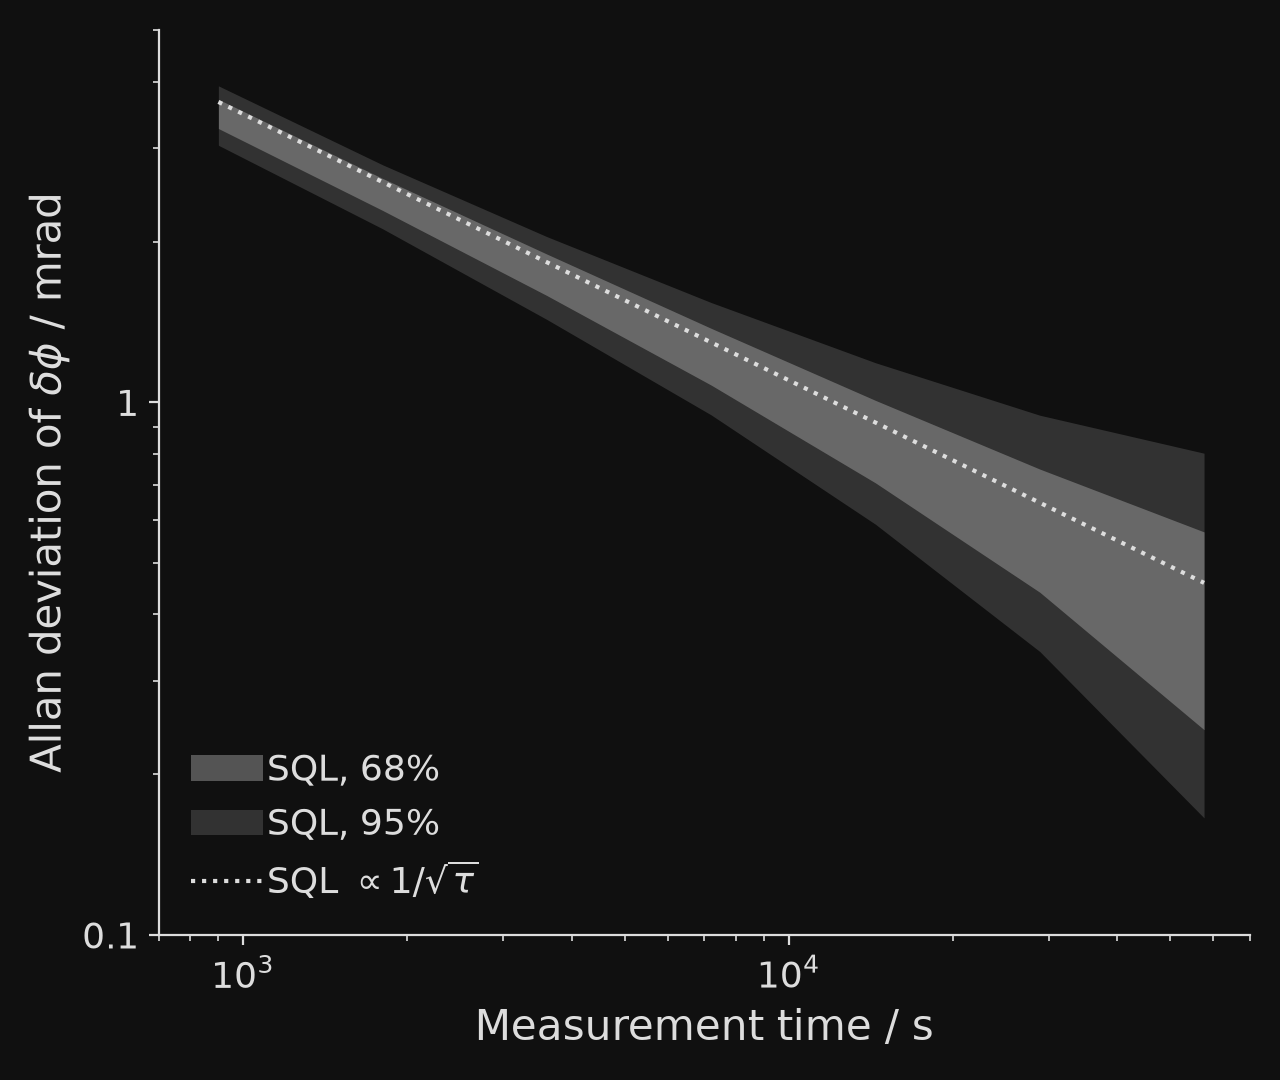
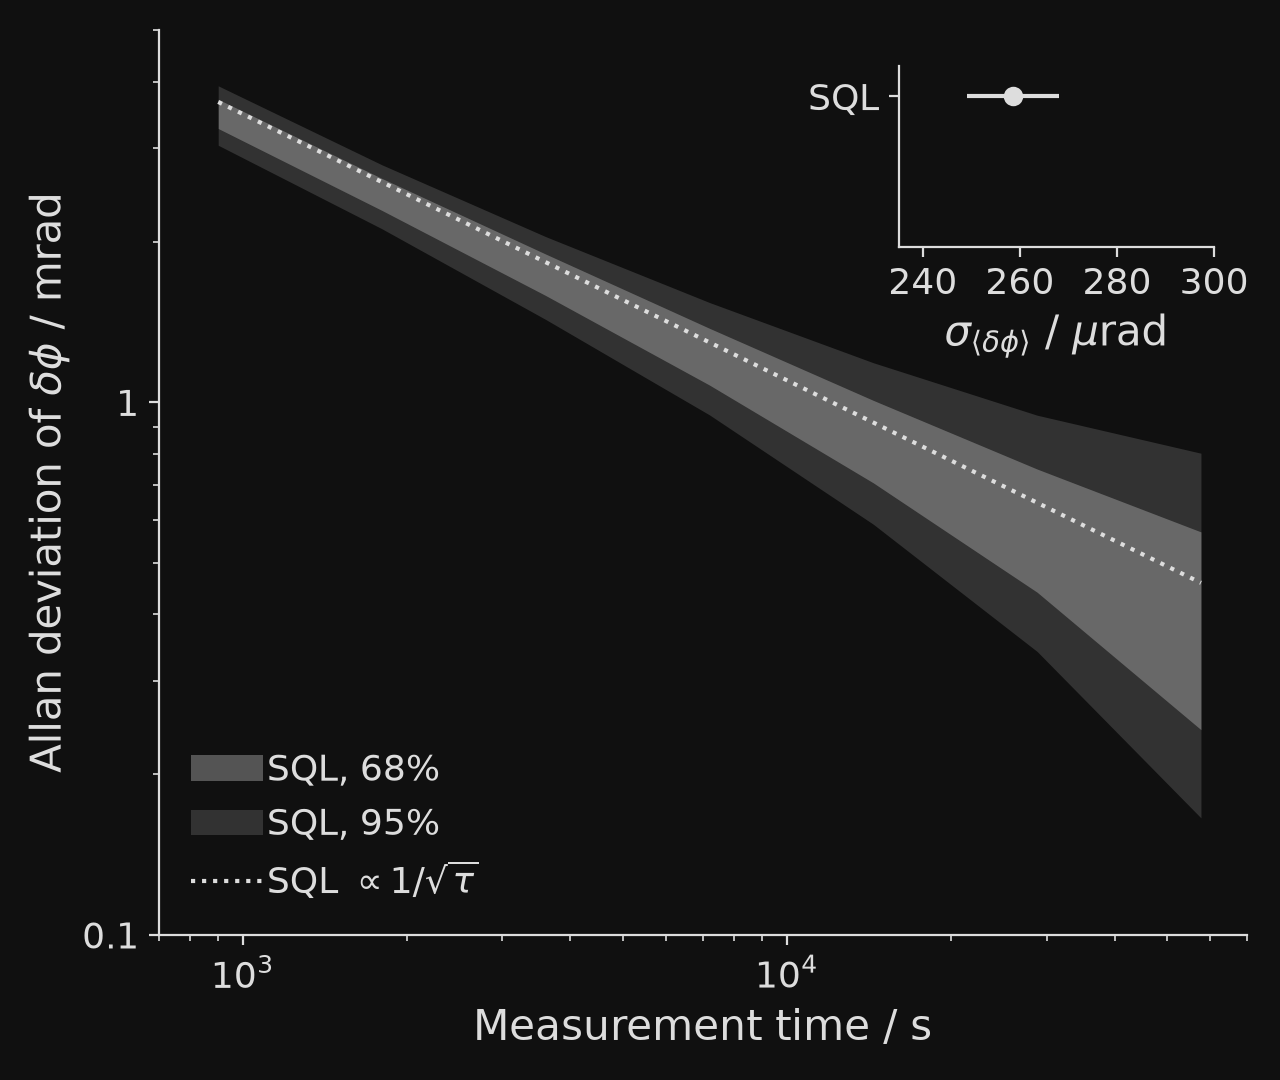
Allan deviation: add the paper's sigma_<dphi> inset; LLN in green
process_dai_adev.py now also works out Fig. 4c's inset as the notebook
does -- each run's sigma_<dphi> over the whole run, and the SQL over the
same shots -- into dai_fringes/sigma.csv: HLN 275(14), LLN 260(13),
SQL 259(10) urad, matching the paper. adev_figure draws it upper right,
its rows filling in with the build-up steps.

The low-laser-noise run goes from white to a bluish green, which stands
clear of the grey SQL band; the Lissajous figures and scene follow.

diff --git a/qsim_visit/data_scripts/process_dai_adev.py b/qsim_visit/data_scripts/process_dai_adev.py
@@ -12,6 +12,13 @@ to ``figures/Figure_4_data.xlsx``. This script copies that workbook's
 ``src/aionanim/data/dai_fringes/adev.csv``, which is what
 ``aionanim.plots.dai_fringes`` reads.
 
+It also works out the figure's inset -- the scatter of the mean differential
+phase over each whole run, sigma_<dphi>, beside the standard quantum limit --
+as the same notebook does (its cells 26-30), from the bootstrapped per-block
+scatter in ``intermediate_data/sigma_delta_phi_*.npy``, the shot counts, and
+the paper's single-shot SQL of 43.5(1.6) mrad, and writes it to
+``src/aionanim/data/dai_fringes/sigma.csv``.
+
     .venv/bin/python data_scripts/process_dai_adev.py [data_analysis.zip]
 
 With no argument the zip is downloaded from Zenodo into a temporary directory
@@ -20,15 +27,31 @@ and its checksum checked.
 
 import csv
 import io
+import math
 import sys
 import xml.etree.ElementTree as ET
 import zipfile
 from pathlib import Path
 
-from process_dai_fringes import OUT_DIR, check_md5, fetch_zip
+import numpy as np
+
+from process_dai_fringes import OUT_DIR, RIDS, RUNS, SOURCE as SHOTS, check_md5, fetch_zip
 
 SOURCE = "data_analysis/figures/Figure_4_data.xlsx"
 SHEET = "allan_deviation"
+
+# The inset's inputs. The npy files are bootstrap samples of the scatter of
+# delta phi over one block of shots; "randomised" is the HLN run. The
+# residual timeseries are the blocks themselves, which fix the block size.
+SIGMA_SAMPLES = {
+    "lln": "data_analysis/data/intermediate_data/sigma_delta_phi_nonrandomised.npy",
+    "hln": "data_analysis/data/intermediate_data/sigma_delta_phi_randomised.npy",
+}
+BLOCKS = {
+    "lln": "data_analysis/data/2026-01-20-DAI-Analysis/residual_timeseries_LN.csv",
+    "hln": "data_analysis/data/2026-01-20-DAI-Analysis/residual_timeseries_HN.csv",
+}
+SQL_SINGLE_SHOT = (43.5e-3, 1.6e-3)  # rad, the paper's, entered by hand in the notebook
 
 # Just enough of the xlsx format to read one sheet of numbers and inline
 # strings, which is all the notebook's openpyxl writes.
@@ -59,12 +82,40 @@ def read_sheet(workbook, name):
     return rows
 
 
+def count_rows(archive, name):
+    """Data rows in a CSV in the archive, not counting comments or the header."""
+    with archive.open(name) as raw:
+        lines = io.TextIOWrapper(raw, encoding="utf-8").read().splitlines()
+    return sum(1 for line in lines if line and not line.startswith("#")) - 1
+
+
+def inset(archive):
+    """[(label, sigma, error)] in rad: each run's sigma_<dphi> over the whole
+    run, then the SQL over the same number of shots per run."""
+    shots = {run: count_rows(archive, SHOTS.format(rids=RIDS, key=key))
+             for run, (key, _) in RUNS.items()}
+    total = sum(shots.values())
+    per_block = math.floor(total / sum(count_rows(archive, f) for f in BLOCKS.values()))
+    rows = []
+    for run in ("hln", "lln"):
+        samples = np.load(io.BytesIO(archive.read(SIGMA_SAMPLES[run])))
+        mean = np.mean(samples)
+        # the notebook takes the lower of the 16/84 percentile distances
+        error = abs(np.percentile(samples, 16) - mean)
+        blocks = math.sqrt(shots[run] / per_block)
+        rows.append((run.upper(), mean / blocks, error / blocks))
+    sql, sql_error = SQL_SINGLE_SHOT
+    rows.append(("SQL", sql / math.sqrt(total / 2), sql_error / math.sqrt(total / 2)))
+    return rows, total, per_block
+
+
 def main():
     zip_path = Path(sys.argv[1]) if len(sys.argv) > 1 else fetch_zip()
     check_md5(zip_path)
 
     with zipfile.ZipFile(zip_path) as archive:
         rows = read_sheet(io.BytesIO(archive.read(SOURCE)), SHEET)
+        sigmas, total, per_block = inset(archive)
 
     OUT_DIR.mkdir(parents=True, exist_ok=True)
     out = OUT_DIR / "adev.csv"
@@ -86,6 +137,26 @@ def main():
         )
         csv.writer(f).writerows(rows)
     print(f"wrote {out.relative_to(OUT_DIR.parent.parent)}: {len(rows) - 1} averaging times")
+
+    out = OUT_DIR / "sigma.csv"
+    with open(out, "w", newline="") as f:
+        f.write(
+            "# Fig. 4c inset: scatter of the mean differential phase over each whole "
+            "run, sigma_<dphi>, against the standard quantum limit\n"
+            "# From Baynham et al., arXiv:2504.09158, "
+            "doi:10.5281/zenodo.19592552 (CC BY 4.0)\n"
+            "# Computed as 'data_analysis/figures/Figure 4.ipynb' does: "
+            f"{', '.join(SIGMA_SAMPLES.values())}, over sqrt(shots per run / "
+            f"{per_block} shots per block); SQL {SQL_SINGLE_SHOT[0] * 1e3}"
+            f"({SQL_SINGLE_SHOT[1] * 1e3}) mrad per shot over sqrt({total} / 2)\n"
+            "# Columns: label; sigma_urad and err_urad, the value and its error bar\n"
+        )
+        writer = csv.writer(f)
+        writer.writerow(["label", "sigma_urad", "err_urad"])
+        for label, sigma, error in sigmas:
+            writer.writerow([label, 1e6 * sigma, 1e6 * error])
+    print(f"wrote {out.relative_to(OUT_DIR.parent.parent)}: "
+          + ", ".join(f"{label} {1e6 * s:.0f}({1e6 * e:.0f}) urad" for label, s, e in sigmas))
 
 
 if __name__ == "__main__":

diff --git a/qsim_visit/src/aionanim/plots/dai_fringes.py b/qsim_visit/src/aionanim/plots/dai_fringes.py
@@ -15,7 +15,9 @@ deviations ``data_scripts/process_dai_adev.py`` and the likelihood scans
   both, it draws the same axes with just that run, for building it up.
 - ``adev_figure``: the Allan deviation of the differential phase read off
   each run's ellipse, against averaging time. Both runs average down along
-  the standard quantum limit, so the laser noise has cancelled.
+  the standard quantum limit, so the laser noise has cancelled. Given the
+  inset's numbers too, it adds the paper's inset: the scatter of the mean
+  phase over each whole run, sigma_<dphi>, beside the SQL.
 - ``signals_figure``: for each of seven sinusoids, 0.1 mHz to 100 mHz,
   imprinted on the phase by a light shift, the likelihood of a sinusoid
   fitted to the differential phase against trial frequency, over the
@@ -67,6 +69,14 @@ def load(run):
 
 def load_adev():
     return load("adev")
+
+
+def load_sigma():
+    """{label: (sigma, error)} in urad for the Allan deviation's inset: "HLN",
+    "LLN" and "SQL"."""
+    with open(DATA_DIR / "sigma.csv") as f:
+        rows = csv.DictReader(line for line in f if not line.startswith("#"))
+        return {r["label"]: (float(r["sigma_urad"]), float(r["err_urad"])) for r in rows}
 
 
 def load_signals():
@@ -158,11 +168,38 @@ def lissajous_figure(runs):
     return fig
 
 
-def adev_figure(adev, runs):
+# The inset, upper right, clear of the data falling from upper left to
+# lower right. Its rows are the paper's, fixed across the build-up steps: a
+# row is only filled and labelled once its run is on the main plot.
+ADEV_INSET = [0.68, 0.76, 0.29, 0.20]  # in the main axes' fractions
+ADEV_INSET_ROWS = {"hln": (1, "High"), "lln": (2, "Low"), "sql": (3, "SQL")}
+ADEV_INSET_XLIM = (235, 300)  # urad
+
+
+def adev_inset(ax, sigma, runs):
+    """sigma_<dphi> of each run in ``runs`` beside the SQL's, as the paper's inset."""
+    inset = ax.inset_axes(ADEV_INSET)
+    shown = [("sql", PLOT_FOREGROUND)] + [(key, color) for key, color, _ in runs]
+    for key, color in shown:
+        value, error = sigma[key.upper()]
+        inset.errorbar(value, ADEV_INSET_ROWS[key][0], xerr=error, fmt="o", ms=6,
+                       elinewidth=1.5, capsize=0, color=hexed(color))
+    rows = sorted(ADEV_INSET_ROWS[key] for key, _ in shown)
+    inset.set_yticks([y for y, _ in rows], [label for _, label in rows])
+    inset.set_ylim(0.5, 3.5)
+    inset.set_xlim(*ADEV_INSET_XLIM)
+    inset.set_xticks([240, 260, 280, 300])
+    dark_axes(inset)
+    inset.set_xlabel(r"$\sigma_{\langle\delta\phi\rangle}$ / $\mu$rad")
+    return inset
+
+
+def adev_figure(adev, runs, sigma=None):
     """Allan deviation against averaging time; runs is a list of (key, color, label).
 
     The key picks a run's columns ("lln" or "hln"). The SQL is always drawn,
-    so an empty list gives the bare limit to build up from.
+    so an empty list gives the bare limit to build up from. With ``sigma``
+    (load_sigma()) the inset is drawn too, with the same runs in it.
     """
     fig, ax = plt.subplots(figsize=(6.4, 5.4))
     fig.set_facecolor(PLOT_BACKGROUND)
@@ -195,6 +232,8 @@ def adev_figure(adev, runs):
     ax.set_xlabel("Measurement time / s")
     ax.set_ylabel(r"Allan deviation of $\delta\phi$ / mrad")
     legend(ax, loc="lower left", markerscale=1)
+    if sigma is not None:
+        adev_inset(ax, sigma, runs)
     fig.tight_layout()
     return fig
 

diff --git a/qsim_visit/src/aionanim/style.py b/qsim_visit/src/aionanim/style.py
@@ -257,13 +257,16 @@ TEST_MASS_DOT_RADIUS = 0.06
 # of the gradiometer, not two states, so they take neither state colour: the
 # lower one gets the cool crest shade and the upper one the warm rim light,
 # which sample as far apart as anything in the talk. Across the noise runs
-# the split is the phase budget's: white for the quiet laser, whose ellipse
-# is the signal, and laser red for the one with phase noise put on it.
+# the split is the phase budget's: green for the quiet laser, whose ellipse
+# is the signal, and laser red for the one with phase noise put on it. Green
+# rather than white, which sank into the grey of the SQL band; a bluish green,
+# kept apart from the light shift's, and further from the red for anyone
+# red-green colour-blind.
 PLOT_BACKGROUND = "#101010"  # manim.cfg's background_color
 PLOT_FOREGROUND = "#dddddd"  # axes, ticks and labels
 LOWER_CLOUD_COLOR = CREST_COLOR
 UPPER_CLOUD_COLOR = HORIZON_GLOW
-LLN_COLOR = SIGNAL_COLOR
+LLN_COLOR = ManimColor("#44dd88")
 HLN_COLOR = NOISE_COLOR
 # The standard quantum limit the two runs' Allan deviations are held against
 # is a reference, not a measurement, so it takes the guide grey: the paper's

diff --git a/qsim_visit/plot_scripts/interferometer_data.py b/qsim_visit/plot_scripts/interferometer_data.py
@@ -23,6 +23,7 @@ from aionanim.plots.dai_fringes import (
     lissajous_figure,
     load,
     load_adev,
+    load_sigma,
     load_signals,
     signals_figure,
 )
@@ -47,12 +48,12 @@ def main():
     save(lissajous_figure([quiet, noisy]), "lissajous")
     save(lissajous_figure([quiet]), "lissajous_lln")
     save(lissajous_figure([noisy]), "lissajous_hln")
-    adev = load_adev()
+    adev, sigma = load_adev(), load_sigma()
     quiet_adev = ("lln", LLN_COLOR, "Low laser noise")
     noisy_adev = ("hln", HLN_COLOR, "High laser noise")
-    save(adev_figure(adev, []), "adev_sql")
-    save(adev_figure(adev, [quiet_adev]), "adev_lln")
-    save(adev_figure(adev, [quiet_adev, noisy_adev]), "adev")
+    save(adev_figure(adev, [], sigma), "adev_sql")
+    save(adev_figure(adev, [quiet_adev], sigma), "adev_lln")
+    save(adev_figure(adev, [quiet_adev, noisy_adev], sigma), "adev")
     save(signals_figure(load_signals()), "signals")
 
 

diff --git a/qsim_visit/src/aionanim/data/README.md b/qsim_visit/src/aionanim/data/README.md
@@ -6,6 +6,7 @@ Read through `aionanim.resources.data_path(...)`.
 |---|---|---|---|
 | `dai_fringes/{lln,hln}.csv` | Shot-by-shot excitation fractions of the AION prototype differential atom interferometer, low and high laser noise | C. Baynham et al., arXiv:2504.09158; data at doi:10.5281/zenodo.19592552, extracted by `data_scripts/process_dai_fringes.py` | CC BY 4.0 |
 | `dai_fringes/adev.csv` | Allan deviation of the DAI differential phase for both runs, with the Monte Carlo SQL band (Fig. 4c) | Same paper and record: the `allan_deviation` sheet of `figures/Figure_4_data.xlsx`, extracted by `data_scripts/process_dai_adev.py` | CC BY 4.0 |
+| `dai_fringes/sigma.csv` | Fig. 4c inset: scatter of the mean differential phase over each whole run, sigma_<dphi>, for both runs and the standard quantum limit | Same paper and record: `intermediate_data/sigma_delta_phi_*.npy` and the shot counts, reduced as `figures/Figure 4.ipynb` does, by `data_scripts/process_dai_adev.py` | CC BY 4.0 |
 | `dai_fringes/signals.csv` | Likelihood of a fitted sinusoid against trial frequency for seven phases imprinted by a light shift (0.1–100 mHz), over each drive's periodogram (Fig. 5a) | Same paper and record: `signal_fitting_results_by_frequency.csv` and `precomputed_true_signals/`, reduced as `figures/Figure 5a.ipynb` does by `data_scripts/process_dai_signals.py` | CC BY 4.0 |
 | `gw_sensitivity/*.csv` | Characteristic-strain sensitivity curves of LIGO, LISA, ET, AION-km, AEDGE, AEDGE+ | Digitised from `GW_exclusion_plot.svg` (see each CSV's header for the exact path and calibration) | Belongs to the owner of the source figure: check before redistributing |
 | `images/ligo20160211a.jpg` | GW150914 as observed by LIGO Hanford and Livingston | LIGO press release, 11 Feb 2016 | Credit Caltech/MIT/LIGO Laboratory |
